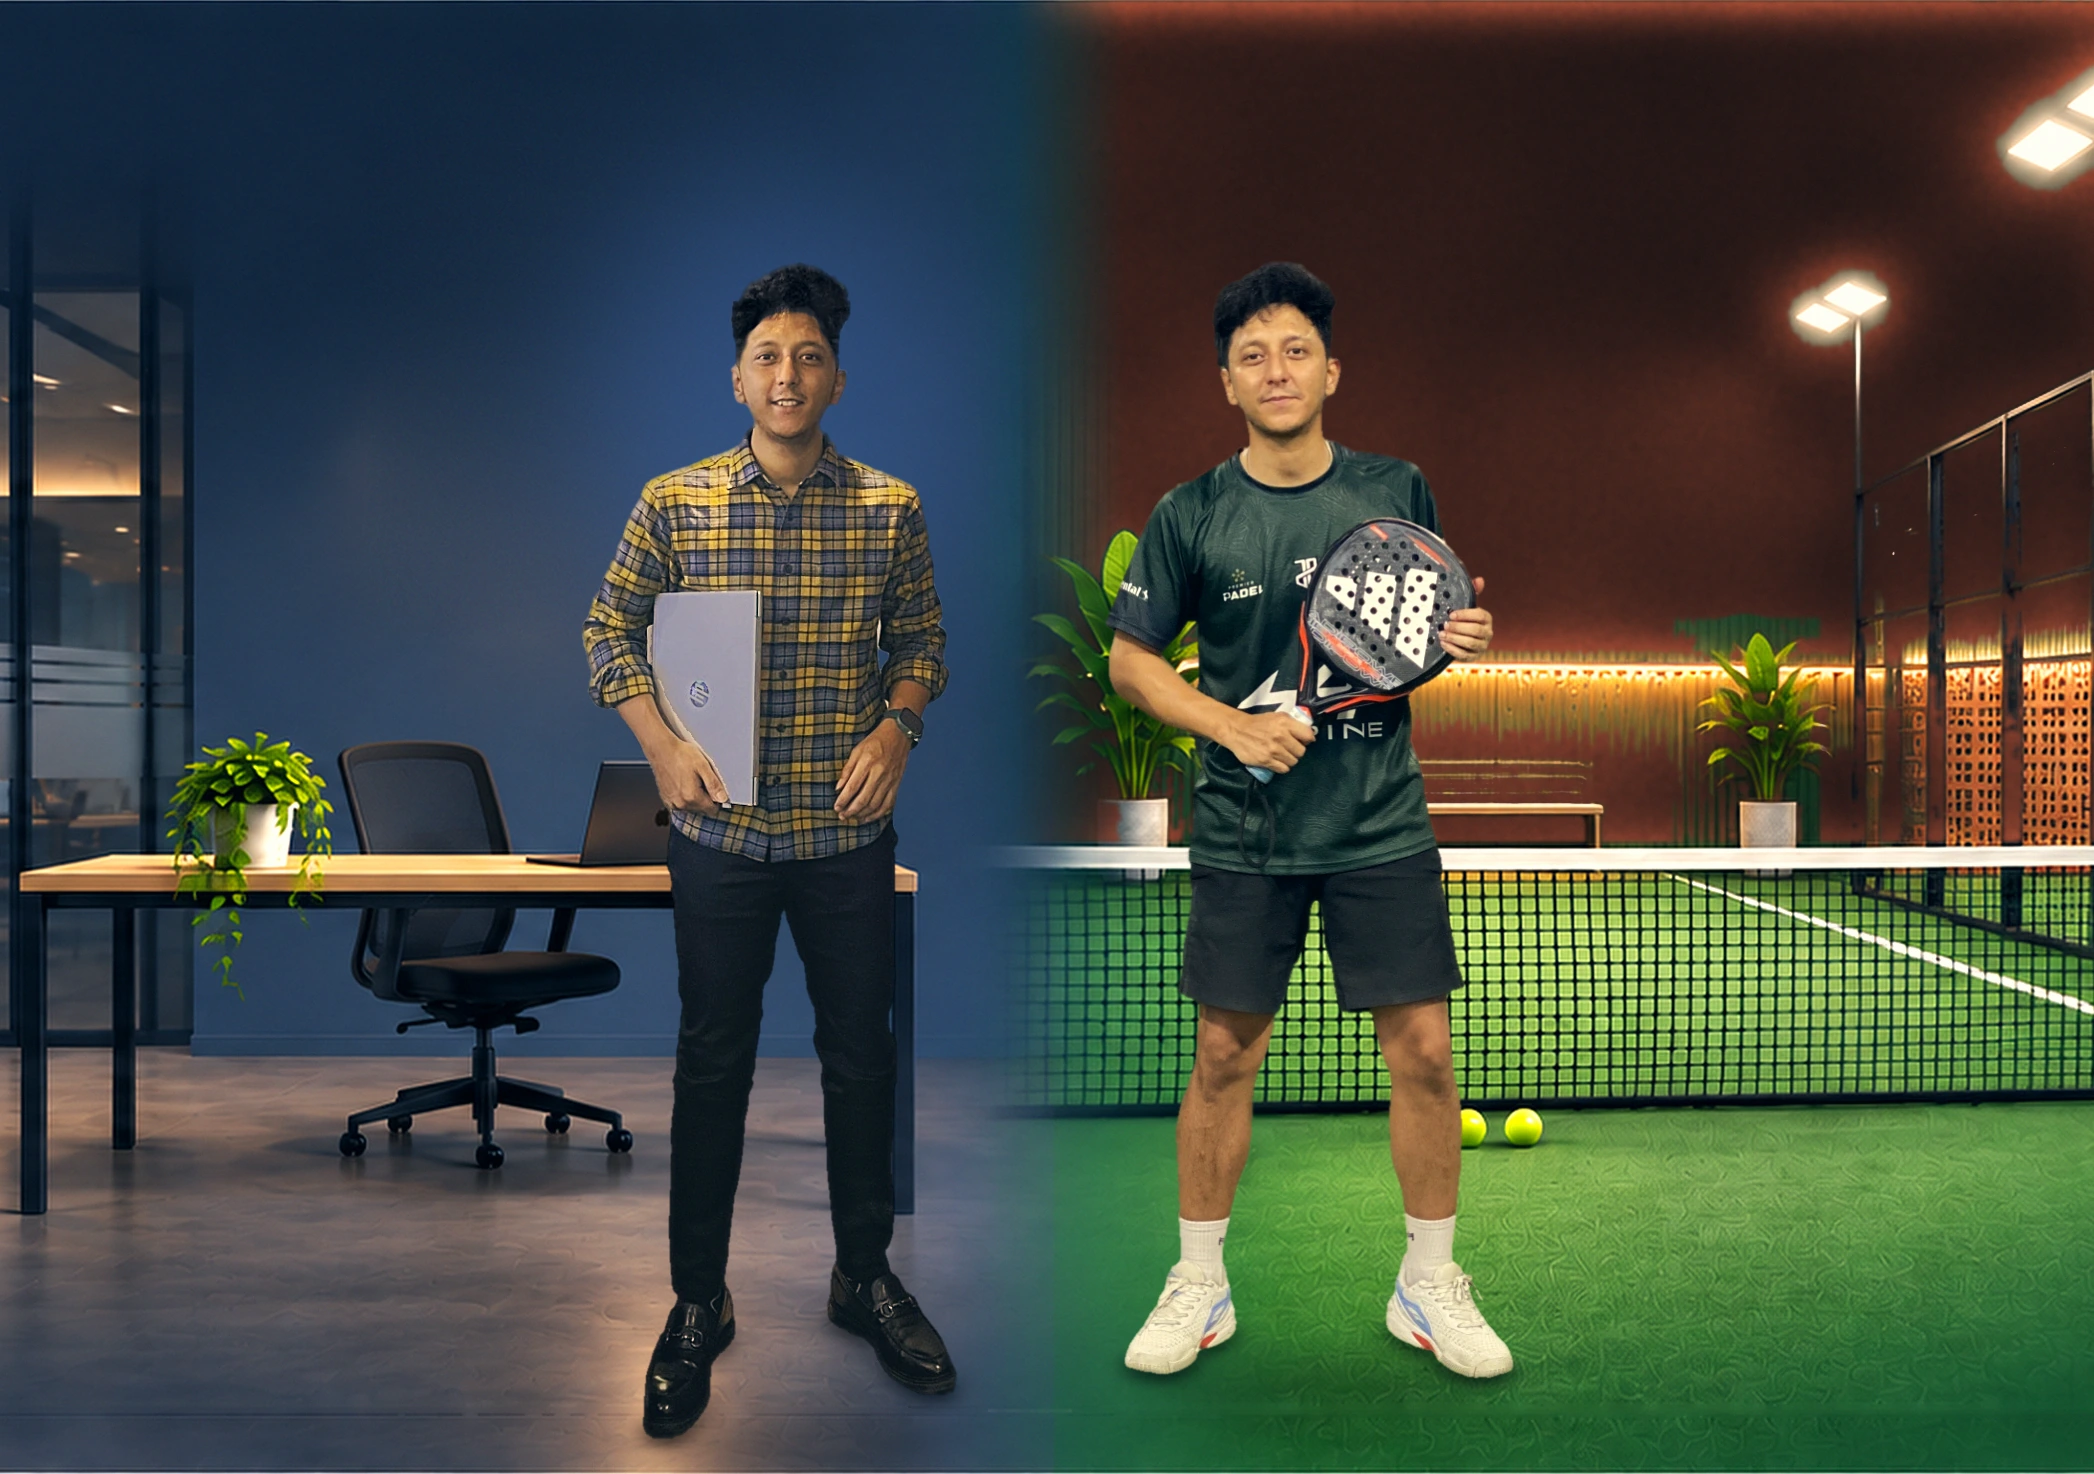
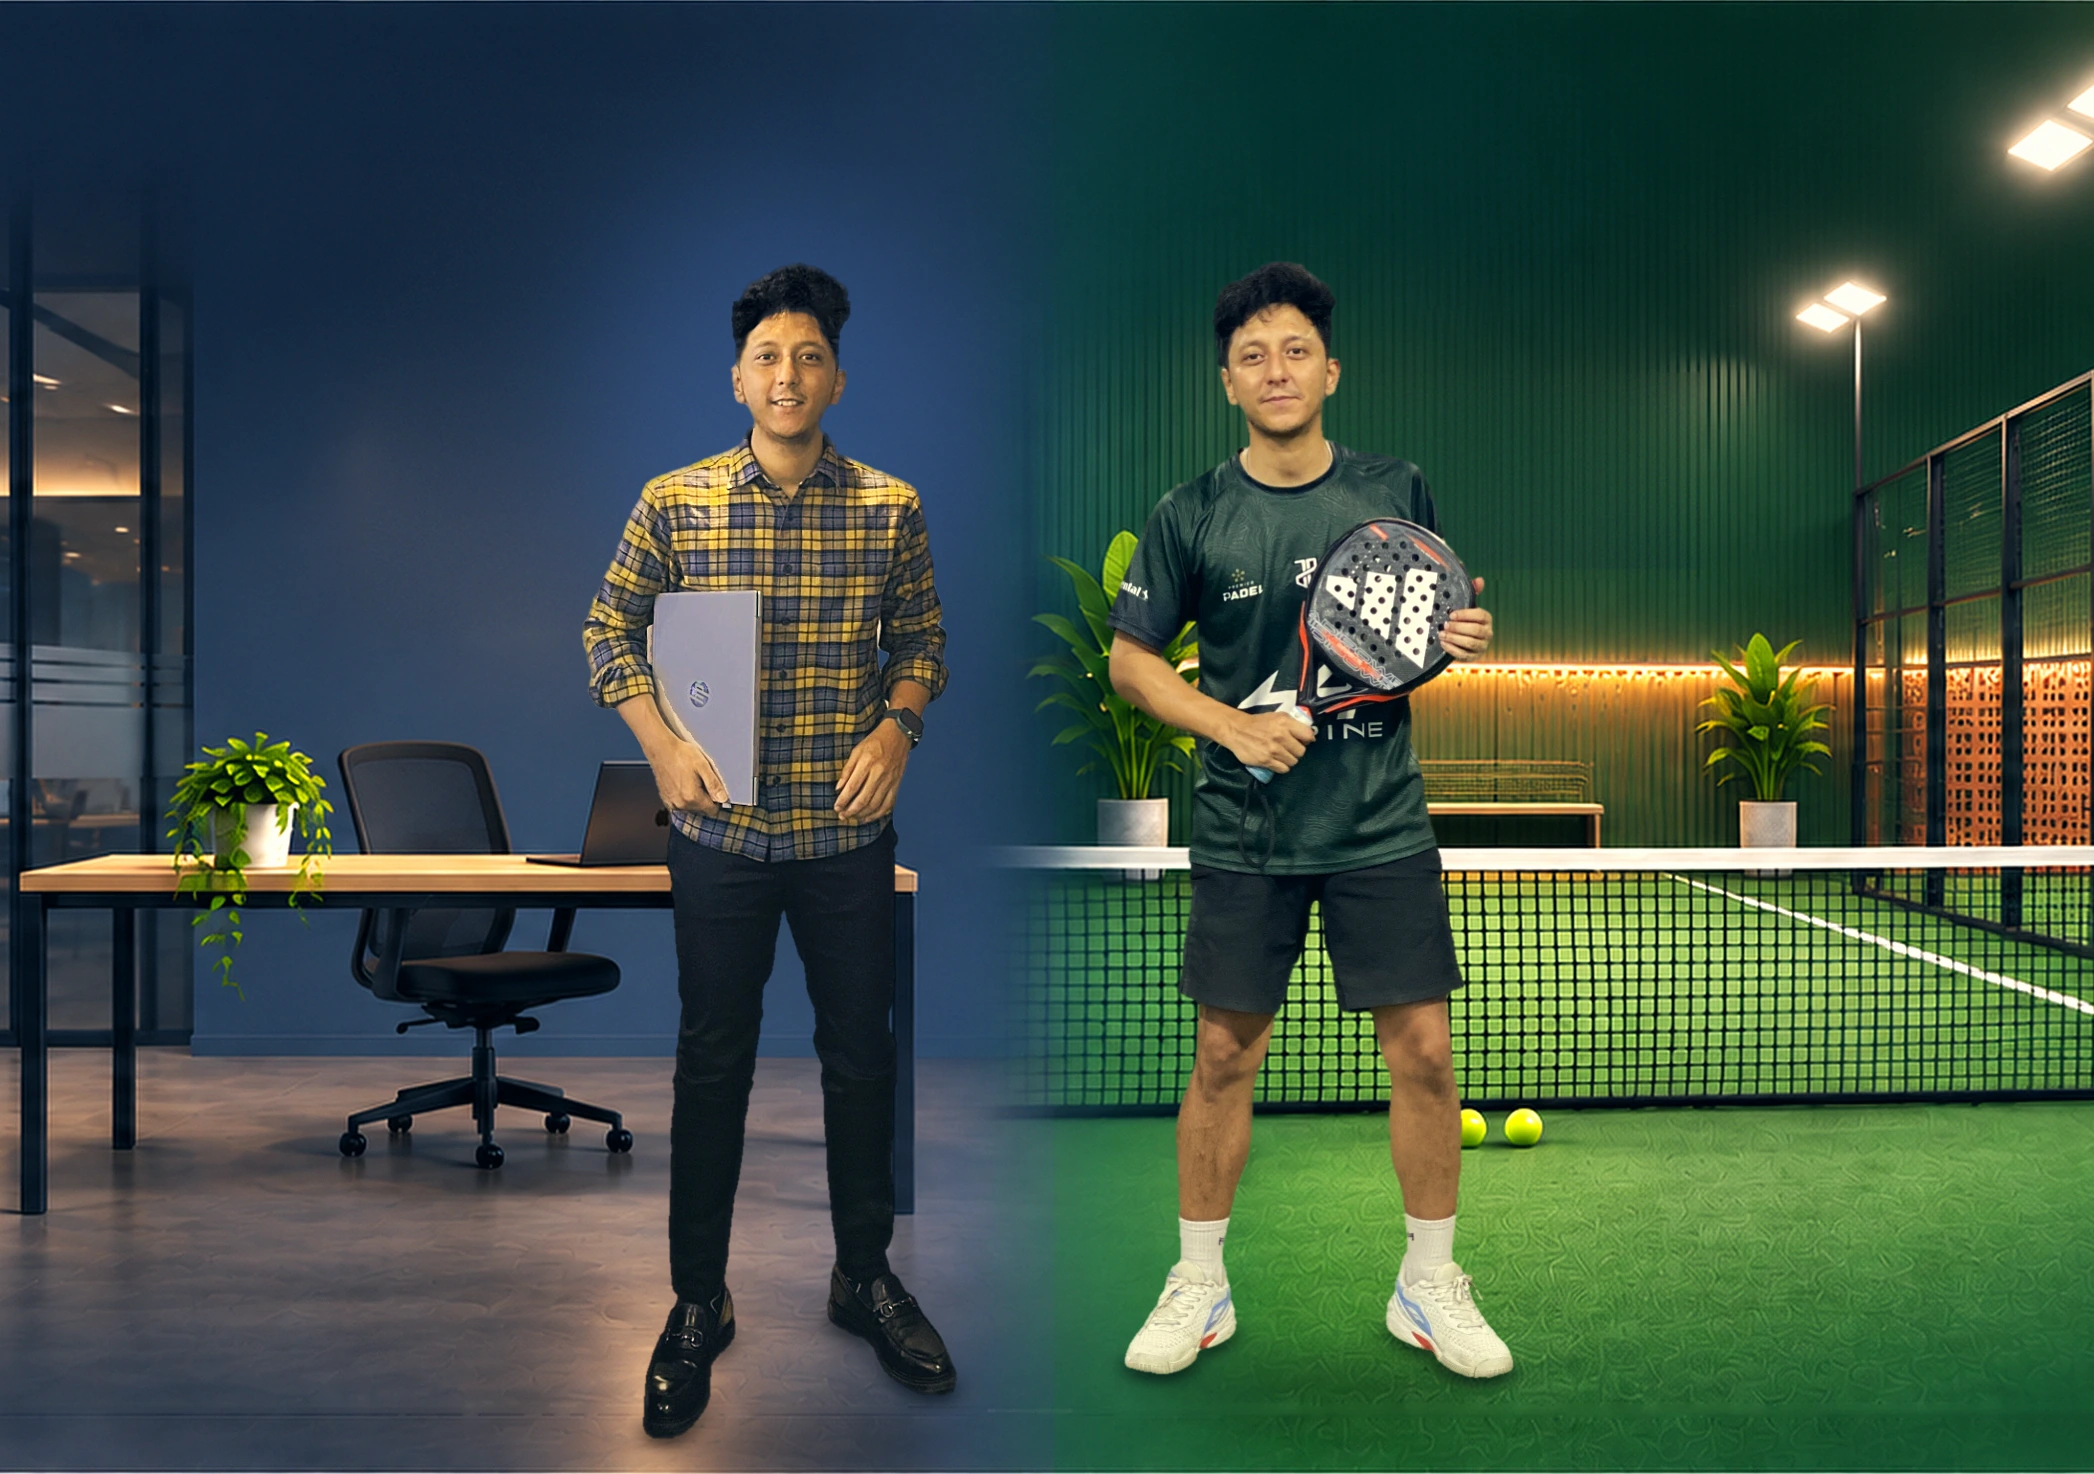
Hero: back to the green court wall, office-side skin tone matched to the court side
Claude-Session: https://claude.ai/code/session_01VMrLkiYrrAHiQs9NRB9Njk

diff --git a/index.html b/index.html
@@ -78,7 +78,7 @@
   .stage{position:relative;height:var(--ph);display:flex;justify-content:center}
   .stage::before,.stage::after{content:"";position:absolute;top:0;bottom:0;width:50%}
   .stage::before{left:0;background:linear-gradient(180deg,#14253d 0%,#1a2a42 60%,#232f42 100%)}
-  .stage::after{right:0;background:linear-gradient(180deg,#2e1713 0%,#3d1f17 40%,#4e2919 56%,#1e3d26 63%,#1d4a31 100%)}
+  .stage::after{right:0;background:linear-gradient(180deg,#123f2a 0%,#14492f 60%,#165636 100%)}
   .stage img{position:relative;z-index:1;height:100%;width:auto;aspect-ratio:1047/737;max-width:none;object-fit:cover;
     -webkit-mask-image:linear-gradient(90deg,transparent 0,#000 12%,#000 88%,transparent 100%);
             mask-image:linear-gradient(90deg,transparent 0,#000 12%,#000 88%,transparent 100%)}
